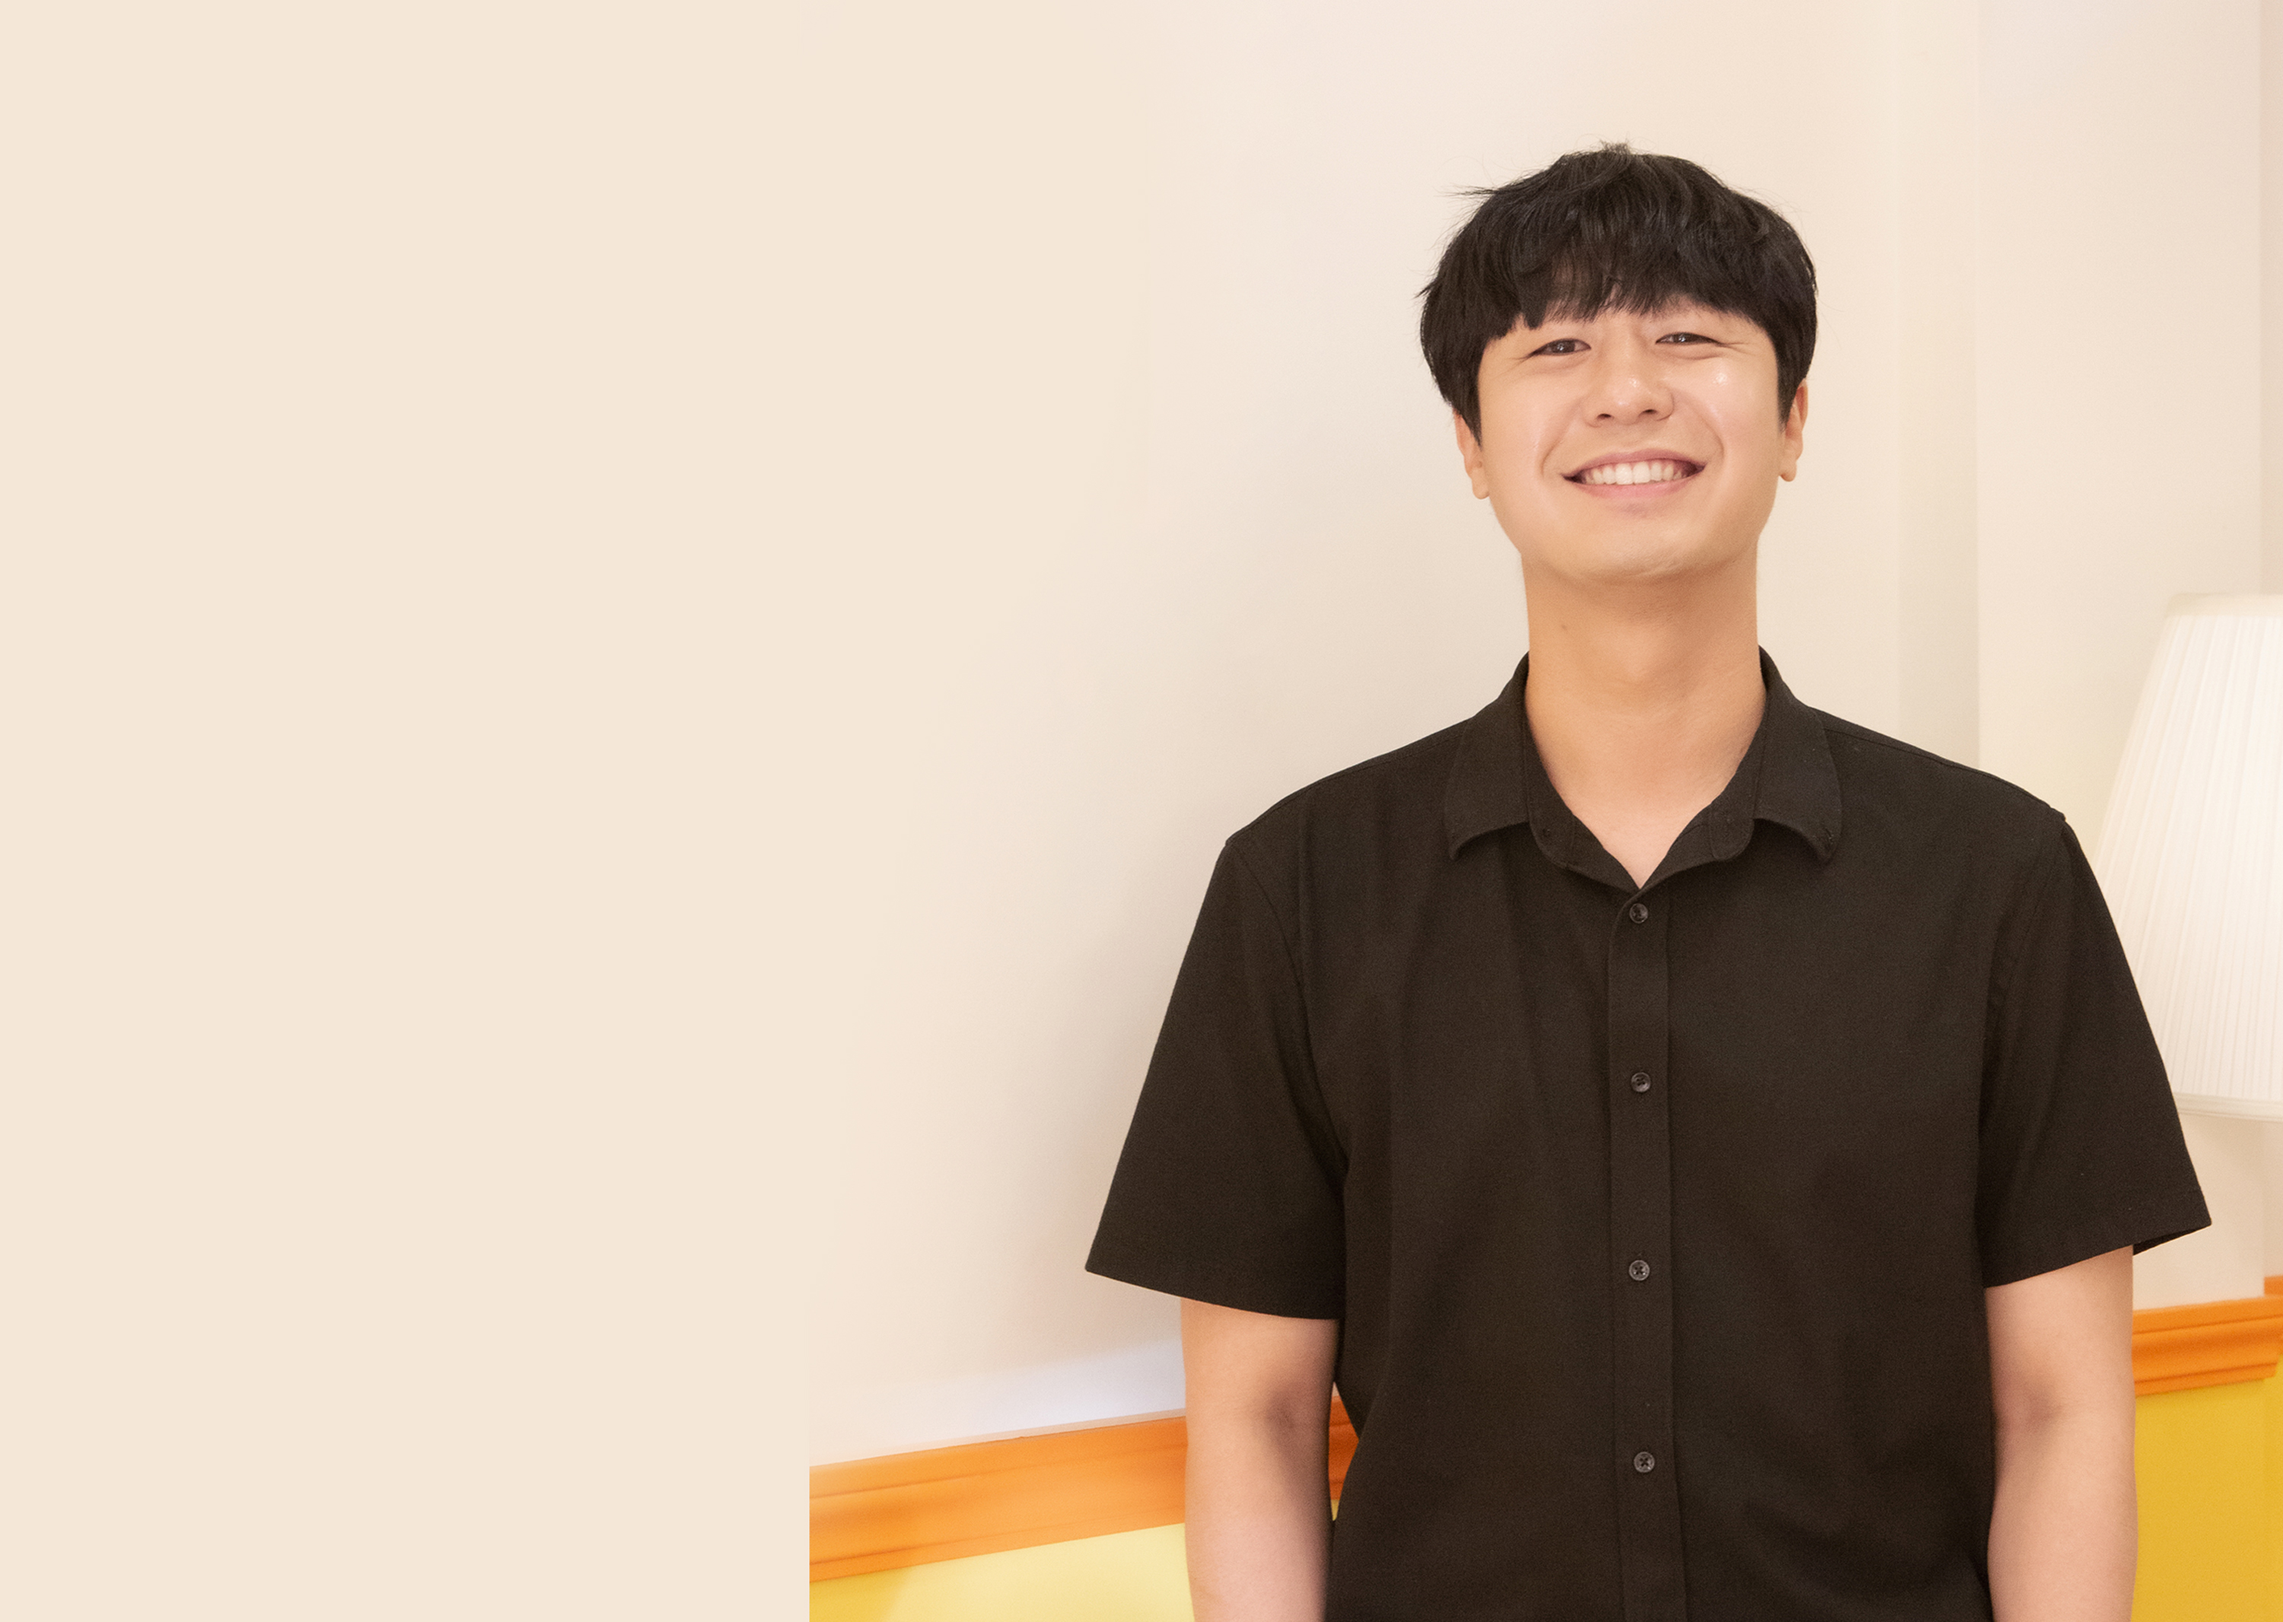
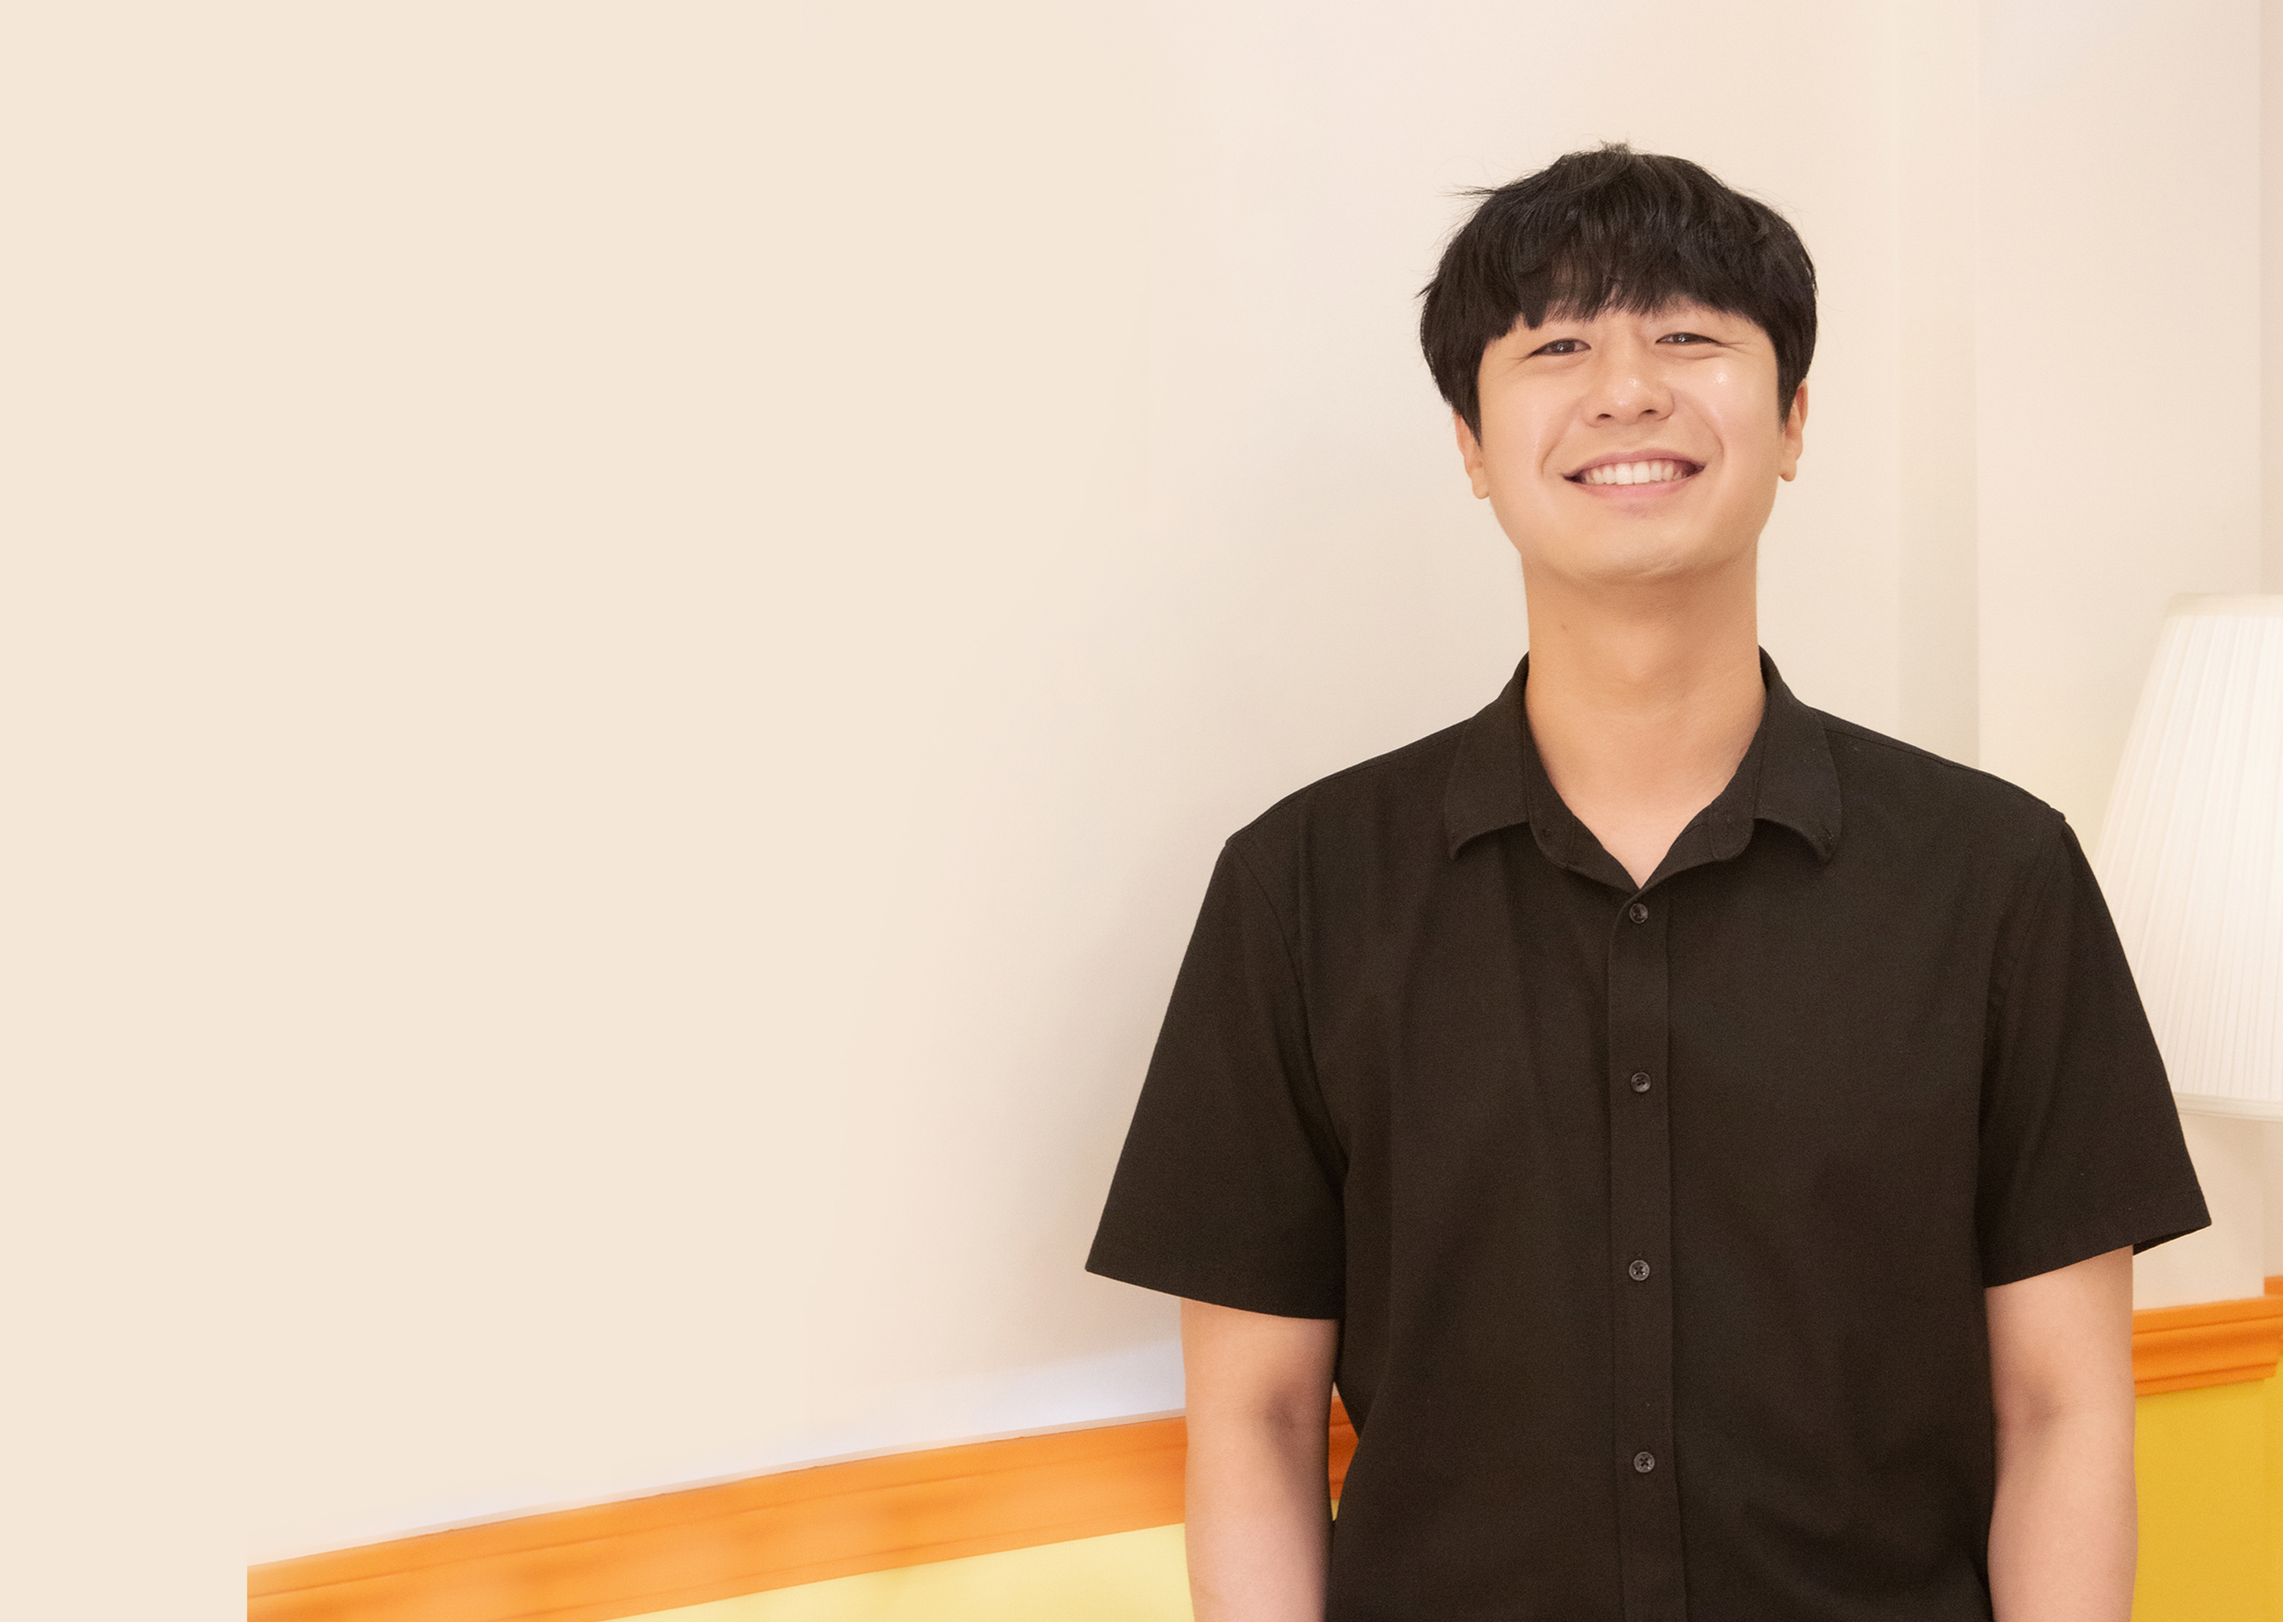
랜딩 배너

Changed region(s): [[0.093, 0.8977, 0.403, 1.0]]

diff --git a/css/index02-1.css b/css/index02-1.css
@@ -154,7 +154,7 @@ section .main {
 }
 
 .issue-box {
-  padding: 50px 24px 10px 24px;
+  padding: 73px 50px 64px 50px;
   font-family: 'Noto Sans KR, san-serif';
   display: flex;
   flex-direction: column;
@@ -364,36 +364,37 @@ section .main {
   gap: 30px;
 }
 .mydebut {
-  width: 70%;
+  width: 60%;
   height: 500px;
   background-color: #000;
   background-image: url(/img/peoplein2_index.jpg);
   background-repeat: no-repeat;
-  background-size: cover;
+  background-size: 770px;
+  background-position: 90% 32%;
 }
-
-/* .mydebut .txt-wrap {
-  padding: 130px 0px 90px 70px;
-} */
 
 .mydebut .txt-wrap h3 {
   position: absolute;
-  top: 335px;
-  left: 70px;
-  font-size: 30px;
+  top: 240px;
+  left: 60px;
+  font-size: 34px;
+  font-weight: 400;
+  letter-spacing: -1.5px;
   color: #5b5450;
   margin-bottom: 30px;
+  font-family: Noto Serif KR, Serif;
 }
 
 .mydebut .txt-wrap p {
   position: absolute;
-  top: 385px;
-  left: 71px;
-  font-size: 16px;
+  top: 200px;
+  left: 61px;
+  font-size: 20px;
   font-weight: 400;
   color: #d28b65;
-  letter-spacing: -0.5px;
+  letter-spacing: -1.5px;
   text-align: justify;
+  font-family: Noto Serif KR, Serif;
 }
 
 .mydebut .txt-wrap p:hover {
@@ -404,7 +405,7 @@ section .main {
 
 .peoplewith {
   position: relative;
-  width: 30%;
+  width: 40%;
   height: 500px;
   background-color: #000;
   position: relative;
@@ -459,24 +460,20 @@ section .main {
 
 /* con-interview media query  */
 
-@media (max-width: 900px) {
+@media (max-width: 1000px) {
   .mydebut {
-    width: 60%;
-    height: 500px;
-    background-color: #000;
-    background-image: url(/img/peoplein2_index.jpg);
-    background-repeat: no-repeat;
-    background-size: cover;
-    background-position: 65% 20%;
+    background-position: 84% 20%;
   }
   .peoplewith {
     width: 40%;
   }
   .mydebut .txt-wrap h3 {
-    left: 49px;
+    top: 335px;
+    left: 45px;
   }
   .mydebut .txt-wrap p {
-    left: 52px;
+    top: 300px;
+    left: 44px;
   }
   .con-interview .tit-box-wht {
     width: 211px;
@@ -488,11 +485,13 @@ section .main {
     background-position: 75% 20%;
   }
   .mydebut .txt-wrap h3 {
-    top: 186px;
+    top: 365px;
+    left: 45px;
   }
-  /* .mydebut .txt-wrap p {
-    display: none;
-  } */
+  .mydebut .txt-wrap p {
+    top: 330px;
+    left: 44px;
+  }
   .con-interview .tit-box-wht {
     top: 138px;
   }
@@ -508,13 +507,25 @@ section .main {
     width: 100vw;
     height: 400px;
   }
+
+  .mydebut .txt-wrap h3 {
+    top: 240px;
+    left: 60px;
+  }
+
+  .mydebut .txt-wrap p {
+    top: 200px;
+    left: 61px;
+  }
 }
 
 @media (max-width: 575px) {
   .mydebut {
     width: 100vw;
     height: 600px;
-    background-position: 94% 20%;
+    background-image: url(/img/peoplein2_index_mo.jpg);
+    background-size: cover;
+    /* background-position: 99% 20%; */
   }
   .mydebut .txt-wrap h3 {
     top: 480px;
@@ -524,6 +535,7 @@ section .main {
   }
 
   .mydebut .txt-wrap p {
+    font-size: 19px;
     text-align: center;
     top: 437px;
     left: 50%;

diff --git a/index.html b/index.html
@@ -178,8 +178,8 @@
             <div class="mydebut">
                 <div class="txt-wrap">
                   <a href="/peoplein83-1.html">
-                    <h3>배우 배유람</h3>
                     <p>맞아요! 그 존재감 가득 신스틸러</p>
+                    <h3>배우 배유람</h3>
                   </a>
                 </div>
                 
